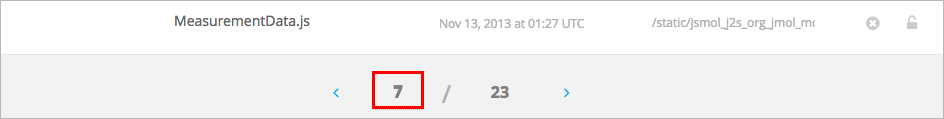
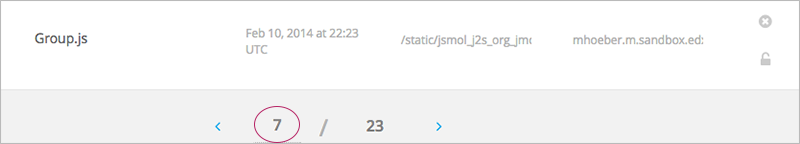
External URL change in Files & Upoads
STUD-1314

diff --git a/docs/en_us/course_authors/source/create_html_component.rst b/docs/en_us/course_authors/source/create_html_component.rst
@@ -194,12 +194,15 @@ Add a Link to a File
 
 You can add a link in an HTML component to any file you've uploaded for the course. For more information about uploading files, see :ref:`Add Files to a Course`.
 
-#. On the **Files & Uploads** page, copy the URL of the file.
+#. On the **Files & Uploads** page, copy the **Embed URL** of the file.
 
-   .. image:: Images/HTML_Link_File.gif
-    :alt: Image of Files and Uploads page with the URL field circled
+  .. image:: Images/HTML_Link_File.png
+   :alt: Image of Files and Uploads page with the URL field circled 
+  
+  
+  .. note:: You must use the **Embed URL** to link to the file, not the **External URL**.
 
-#. Select the text that you want to make into the link.
+2. Select the text that you want to make into the link.
 
 #. Click the link icon in the toolbar.
 
@@ -210,7 +213,7 @@ You can add a link in an HTML component to any file you've uploaded for the cour
    Make sure to include both forward slashes (/).
 
    .. image:: /Images/HTML_Insert-EditLink_File.gif
-    :alt: Image of the Inser/Edit Link dialog box with a link to a file
+    :alt: Image of the Insert/Edit Link dialog box with a link to a file
 
 #. If you want the link to open in a new window, click the drop-down arrow next to
    the **Target** field, and then select **Open Link in a New Window**. If not, you can leave the default value.
@@ -218,6 +221,8 @@ You can add a link in an HTML component to any file you've uploaded for the cour
 #. Click **Insert**.
 
 #. Save the HTML component and test the link.
+
+.. note::  When you add the file link in the format ``/static/FileName.type``, then later reopen the **Insert/Edit Link** dialog box, you see that the link changes to ``/c4x/edX/Course-name/asset/FileName.type``. This URL is OK and you do not need to change it. In the HTML view, the link appears as ``/static/FileName.type``.
 
 
 .. _Add an Image to an HTML Component:
@@ -232,19 +237,35 @@ You can add any image that you have uploaded for the course to an HTML component
 
 To add an image, you'll need the URL of the image that you uploaded to the course. You'll then create a link to the image in the HTML component.
 
-#. On the **Files & Uploads** page, copy the URL of the image that you want.
+#. On the **Files & Uploads** page, copy the **Embed URL** of the image that you want.
 
-#. In the HTML component, switch to HTML view.
+  .. image:: Images/image_link.png
+   :alt: Image of the Files & Upload page with the Embed URL for the image circled
 
-#. In the location where you want to add the image, enter an image tag that uses the following syntax.
+  .. note:: You must use the **Embed URL** to add the image, not the **External URL**.
 
-   ``<p><img src="[URL of file]" alt="[description]"/></p>``
+2. Click the image icon in the toolbar.
 
-   For example, your image tag may resemble the following.
+#. In the **Insert/Edit Image** dialog box, enter the following in the **Image URL** field.
 
-   ``<p><img src="/static/GreatLakes.gif" alt="Map of the Great Lakes" /></p>``
+   ``/static/FileName.type``
 
-#. Switch back to Visual view to make sure your image appears.
+   Make sure to include both forward slashes (/).
+
+   .. image:: /Images/HTML_Insert-Edit_Image.png
+    :alt: Image of the Insert/Edit Image dialog box with a link to a file
+
+4. Enter alternative text in the Image Description field. See :ref:`Best Practices for Describing Images` for more information.
+
+#. As needed, in the **Insert/Edit Image** dialog box, customize the image alignment, dimensions, border, and vertical and horizontal space.
+
+#. Click **Insert**.
+
+#. Save the HTML component and test the image.
+
+.. note::  When you add the image URL in the format ``/static/FileName.type``, then later reopen the **Insert/Edit Image** dialog box, you see that the URL changes to ``/c4x/edX/Course-name/asset/FileName.type``. This URL is OK and you do not need to change it. In the HTML view, the URL appears as ``/static/FileName.type``.
+
+
 
 .. _Import LaTeX Code:
 

diff --git a/docs/en_us/course_authors/source/create_new_course.rst b/docs/en_us/course_authors/source/create_new_course.rst
@@ -267,7 +267,7 @@ Set Course Requirements
 The estimated Effort per Week appears on the Course Summary page that students see.
 
 #. From the **Settings** menu, select **Schedule & Details**.
-#. Scroll down to the **Requirments** section.
+#. Scroll down to the **Requirements** section.
 #. In the **Hours of Effort per Week** field, enter the number of hours you expect students to work on this course each week.
 #. View your course summary page to test how the video will appear to students.
 
@@ -278,23 +278,41 @@ Add Files to a Course
 **********************
 
 You can add files that you want students to access in the course. After you add a file,
-you must link to it from a course component, update, or in the course handouts. A file 
+you must link to it from a component, a course update, or in the course handouts. A file 
 is only visible to students if you create a link to it.
  
 .. note:: Because the file name becomes part of the URL, students can see the name of the file when they open it. Avoid using file names such as AnswerKey.pdf.
   
 .. warning:: If you upload a file with the same name as an existing course file, the original file is overwritten without warning.
 
-To add a file:
+To add files:
  
 #. From the **Content** menu, select **Files & Uploads**.
 #. Click **Upload New File**.
 #. In the **Upload New File** dialog box, click **Choose File**.
-#. In the **Open** dialog box, locate the file that you want, and then click **Open**.
-#. To add another file, click **Load Another File**. 
+#. In the **Open** dialog box, select one more files that you want to upload, then click **Open**.
+#. To add more file, click **Load Another File** and repeat the previous step.
 #. To close the dialog box, click the **x** in the top right corner. 
 
 When you close the dialog box, the new files appear on the **Files & Uploads** page.
+
+==================
+File URLs
+==================
+
+In the Files & Uploads page, each file has has an **Embed URL** and an **External URL**:
+
+
+.. image:: Images/files_uploads_urls.png
+ :alt: Image of the Files and Uploads page, with Embed URL and External URL columns circled
+
+* You use the **Embed URL** to link to the file or image from a component, a course update, or a course handout. 
+
+* You use the **External URL** to reference the file or image from outside of your course. The external URL does not work if you lock the file unless the person accessing the URL is enrolled in the course.
+
+  .. warning:: You cannot use the External URL as the reference to a file or image from within your course.
+
+You can double click a value in the **Embed URL** or **External URL** column to select the value, then copy it.
 
 
 ==================
@@ -332,14 +350,6 @@ You can navigate through the pages listing files in two ways:
     :alt: Pagination in the Files & Uploads page
 
   
-==================
-Get the File URL
-==================
-To link to the file from a course component, update, or the course handout list, you must get the file URL.
-
-In the **Files & Uploads** page, locate the file. The **URL** column shows the value to use in links.
-
-You can double click a value in the **URL** column to select the value, then copy it.
  
 ==================
 Lock a file
@@ -347,6 +357,8 @@ Lock a file
 By default, anyone can access a file you upload if they know the URL, even people not enrolled in your class.
 
 To ensure that those not in your class cannot view the file, click the lock icon.
+
+.. note:: The external URL does not work if you lock the file.
  
 ==================
 Delete a file

diff --git a/docs/en_us/course_authors/source/change_log.rst b/docs/en_us/course_authors/source/change_log.rst
@@ -10,6 +10,10 @@ Change Log
 
    * - Date
      - Change
+   * - 02/25/14
+     - Updated :ref:`Add Files to a Course` section to include new External URL feature.
+   * -
+     - Updated :ref:`Add a Link to a File` and :ref:`Add an Image to an HTML Component` to specify you must use the file's Embed URL.
    * - 02/24/14
      - Created new chapter, :ref:`Getting Started with edX`.
    * -
